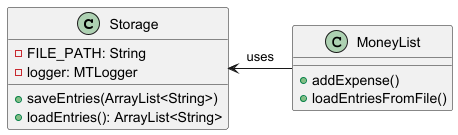
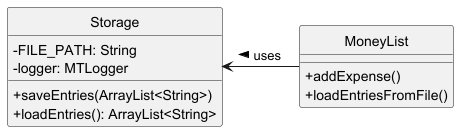
Added association arrows in all class diagrams

Changed region(s): [[0.0, 0.0606, 1.0, 0.9697], [0.0306, 0.3333, 0.3362, 0.4545]]

diff --git a/docs/DeveloperGuide.md b/docs/DeveloperGuide.md
@@ -11,7 +11,8 @@
 
 ## Acknowledgements <a name="1-acknowledgements"></a>
 
-{NONE AT THE MOMENT}
+Some codes are adopted and later modified from the repo
+of rchlai, Hansel-K, EdwinTun98, and limleyhooi.
 
 ## Design <a name="2-design"></a>
 
